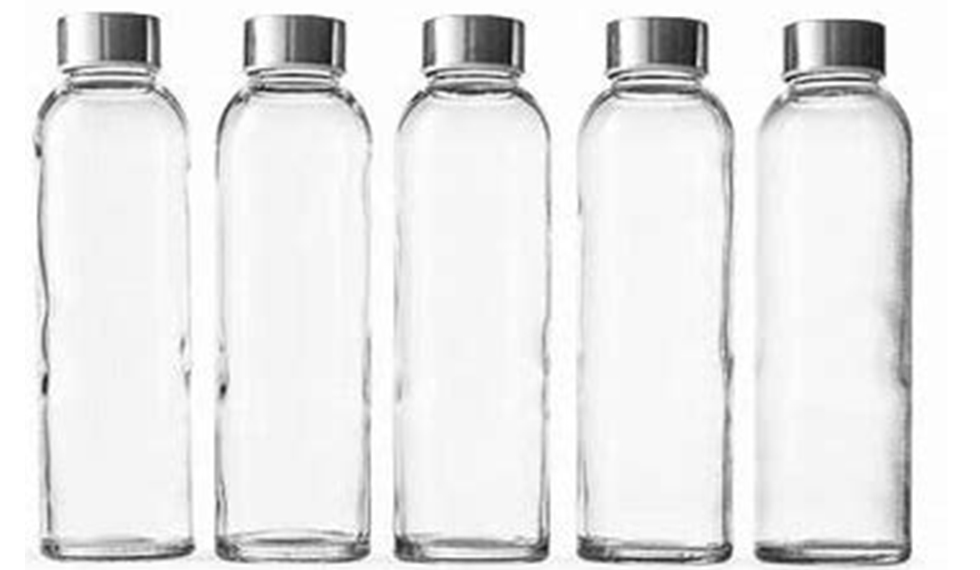
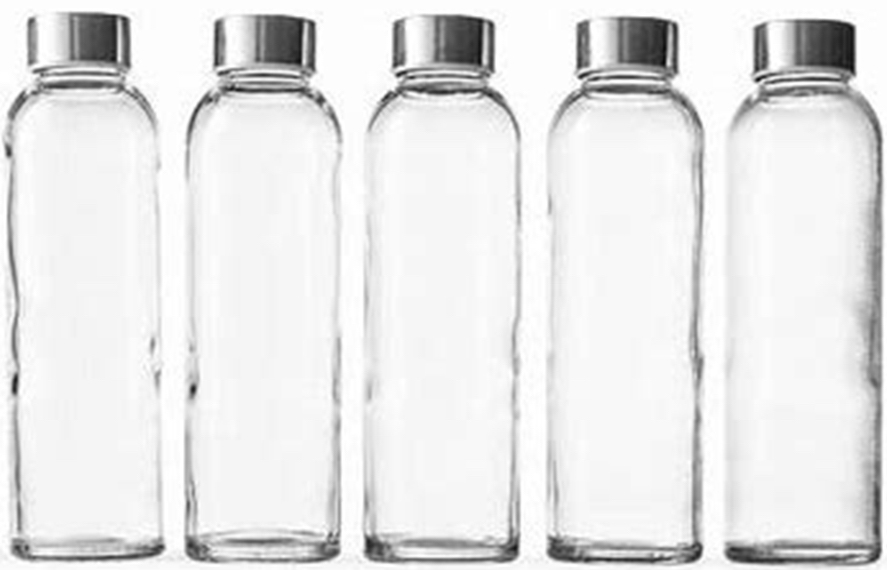
- fixed spelling mistake in readme - reverted home carousel

Changed region(s): [[0.3348, 0.0, 1.0, 1.0], [0.0, 0.0, 0.3044, 1.0], [0.3348, 0.3877, 0.4566, 1.0]]

diff --git a/frontend/src/components/Home/HomeCarousel.vue b/frontend/src/components/Home/HomeCarousel.vue
@@ -1,5 +1,5 @@
 <template>
-  <!-- <div id="homeCarousel" class="carousel slide top-spacer" data-ride="carousel">
+  <div id="homeCarousel" class="carousel slide top-spacer" data-ride="carousel">
     <ol class="carousel-indicators">
       <li data-target="#homeCarousel" data-slide-to="0" class="active"></li>
       <li data-target="#homeCarousel" data-slide-to="1"></li>
@@ -7,7 +7,7 @@
     </ol>
     <div class="carousel-inner">
       <div class="carousel-item active">
-      <img src="@/assets/glass_bottles_line_carousel.jpg" class="d-block img-fluid img-responsive" height="400" alt="Glass bottles in a line">
+      <img src="@/assets/glass_bottles_line_carousel.jpg" class="d-block w-100" height="500" alt="Glass bottles in a line">
         <div class="carousel-caption text-black">
           <h1 class="light-text"><u>Our bottles</u></h1>
           <h4>Our specially designed bottle allows us to capture and retain the freshness of the contents inside.
@@ -16,7 +16,7 @@
         </div>
       </div>
       <div class="carousel-item">
-        <img src="@/assets/guy_running_forest_carousel.jpg" class="d-block img-fluid  img-responsive" height="400" alt="guy running through a forest">
+        <img src="@/assets/guy_running_forest_carousel.jpg" class="d-block w-100" height="500" alt="guy running through a forest">
         <div class="carousel-caption text-white">
           <h2><u>Our products are good for the environment</u></h2>
           <h4>All RapidAir products are recycleable!</h4>
@@ -26,7 +26,7 @@
         </div>
       </div>
       <div class="carousel-item">
-        <img src="@/assets/calgary_skyline_carousel_2.jpg" class="d-block img-fluid  img-responsive " height="400" alt="Skyline of the city of calgary">
+        <img src="@/assets/calgary_skyline_carousel_2.jpg" class="d-block w-100" height="500" alt="Skyline of the city of calgary">
         <div class="carousel-caption text-white">
           <h1><u>Get in contact</u></h1>
           <h4>See our operating hours or send us an email</h4>
@@ -42,51 +42,7 @@
       <img src="@/assets/next_icon.png" class="d-block w-40" height="25" alt="bottle icon">
       <span class="sr-only">Next</span>
     </a>
-  </div> -->
-  <div id="demo" class="carousel slide" data-ride="carousel">
-  <ul class="carousel-indicators">
-    <li data-target="#demo" data-slide-to="0" class="active"></li>
-    <li data-target="#demo" data-slide-to="1"></li>
-    <li data-target="#demo" data-slide-to="2"></li>
-  </ul>
-  <div class="carousel-inner">
-    <div class="carousel-item active">
-        <img src="@/assets/glass_bottles_line_carousel.jpg" width="1100" height="500" alt="Glass bottles in a line">
-        <div class="carousel-caption text-black">
-          <h1 class="light-text"><u>Our bottles</u></h1>
-          <h4>Our specially designed bottle allows us to capture and retain the freshness of the contents inside.
-          No CFC’s, no propellants.</h4>
-          <router-link :to="{ name: 'Store' }" class="lead btn btn-blue top-spacer-sm">Products</router-link>
-        </div>
-    </div>
-    <div class="carousel-item">
-      <img src="@/assets/guy_running_forest_carousel.jpg" width="1100" height="500" alt="guy running through a forest">
-      <div class="carousel-caption text-white">
-        <h2><u>Our products are good for the environment</u></h2>
-        <h4>All RapidAir products are recycleable!</h4>
-        <div class="text-center">
-          <router-link :to="{ name: 'Store' }" class="lead btn btn-blue top-spacer-xsm">Store page</router-link>
-        </div>
-      </div>  
-    </div>
-    <div class="carousel-item">
-      <img src="@/assets/calgary_skyline_carousel_2.jpg" width="1100" height="500" alt="Skyline of the city of calgary">
-      <div class="carousel-caption text-white">
-        <h1><u>Get in contact</u></h1>
-        <h4>See our operating hours or send us an email</h4>
-        <router-link :to="{ name: 'Contact' }" class="lead btn btn-blue top-spacer-sm">Contact page</router-link>
-      </div>  
-    </div>
   </div>
-  <a class="carousel-control-prev" href="#demo" role="button" data-slide="prev">
-    <img src="@/assets/prev_icon.png" class="d-block w-40" height="25" alt="bottle icon">
-    <span class="sr-only">Previous</span>
-  </a>
-  <a class="carousel-control-next" href="#demo" role="button" data-slide="next">
-    <img src="@/assets/next_icon.png" class="d-block w-40" height="25" alt="bottle icon">
-    <span class="sr-only">Next</span>
-  </a>
-</div>
 </template>
 
 <script>
@@ -106,10 +62,10 @@ export default {
 .top-spacer-xsm {
   margin-top: 1em
 }
-.carousel-inner img {
-    width: 100%;
-    height: 100%;
-  }
+/* .carousel-inner img {
+    width: 1200px;
+    max-height: 500px;
+  } */
 
 /* .img-responsive {
   /* width: 100%;

diff --git a/README.md b/README.md
@@ -2,7 +2,7 @@
 
 A project for the Alberta skills web design competition.
 Built with vue.js and compiled using webpack.
-It is a simple 5 page web app that coonnects to a mongo atlas database using the stitch API.
+It is a simple 5 page web app that connects to a mongo atlas database using the stitch API.
 
 # To run
 without downloading the code:
